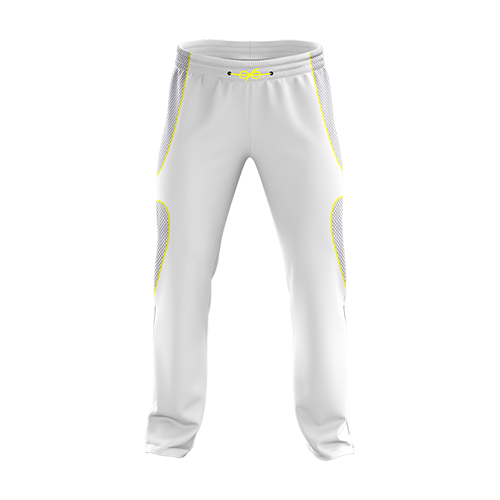
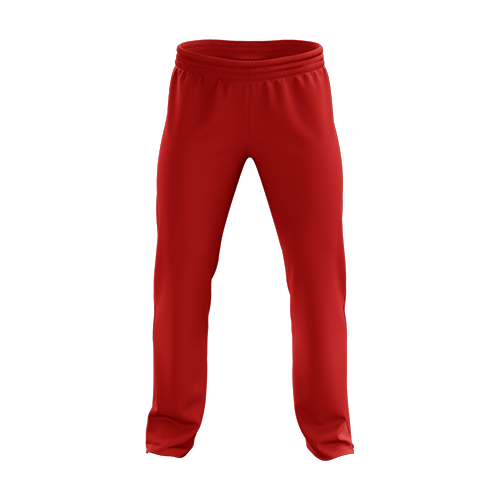
changes

Changed region(s): [[0.27, 0.06, 0.72, 0.93]]

diff --git a/js/controllers.js b/js/controllers.js
@@ -884,13 +884,13 @@ angular.module('phonecatControllers', ['templateservicemod', 'navigationservice'
         $scope.switchTrimHighlightOne = function (color) {
             console.log('colorrr', color);
             $scope.trouserJson.color.trim1 = color;
-            $scope.trouserJson.design.highlightOne = "img/" + $scope.trouserJson.type + "/" + $scope.trouserJson.design.name + "/front/trim1/" + color + ".png"; // "img/odi-tshirts/trims/highlight1/front/trim_" + color + ".png";
+            $scope.trouserJson.design.highlightOne = "img/" + $scope.trouserJson.type + "/" + $scope.designName + "/front/trim1/" + color + ".png"; // "img/odi-tshirts/trims/highlight1/front/trim_" + color + ".png";
 
         };
         $scope.switchTrimHighlightTwo = function (color) {
             //  console.log('colorswitchTrimHighlighttwo', color);
             $scope.trouserJson.color.trim2 = color;
-            $scope.trouserJson.design.highlightTwo = "img/" + $scope.trouserJson.type + "/" + $scope.trouserJson.design.name + "/front/trim2/" + color + ".png";
+            $scope.trouserJson.design.highlightTwo = "img/" + $scope.trouserJson.type + "/" + $scope.designName + "/front/trim2/" + color + ".png";
 
         };
         $scope.switchTrimHighlightBase = function (color) {
@@ -1183,7 +1183,7 @@ angular.module('phonecatControllers', ['templateservicemod', 'navigationservice'
                 $scope.trimTrouser.highlightTwo.disable = "noable";
                 $scope.trouserJson.design.name = "Square Leg";
                 $scope.trouserJson.type = "trousers";
-                $scope.designName = "design1";
+                $scope.designName = "design4";
                 $scope.singleAmount = 850;
                 $scope.trouserJson.color.base = "white";
                 $scope.trouserJson.color.trim1 = "lemon_yellow";
@@ -1232,15 +1232,15 @@ angular.module('phonecatControllers', ['templateservicemod', 'navigationservice'
                 $scope.trimTrouser.highlightTwo.disable = "noable";
                 $scope.trouserJson.design.name = "Long Leg";
                 $scope.trouserJson.type = "trousers";
-                $scope.designName = "design4";
+                $scope.designName = "design1";
                 $scope.singleAmount = 850;
                 $scope.trimTabs.light3.active = "activeme";
                 $scope.trimTabs.light3.show = "active-tab";
-                $scope.trouserJson.color.base = "red";
-                $scope.trouserJson.color.trim1 = "white";
+                $scope.trouserJson.color.base = "black";
+                $scope.trouserJson.color.trim1 = "red";
                 $scope.trouserJson.color.trim2 = "";
-                $scope.trouserJson.design.base = "img/" + $scope.trouserJson.type + "/base/front/" + 'red' + ".png";
-                $scope.trouserJson.design.highlightOne = "img/" + $scope.trouserJson.type + "/" + $scope.designName + "/front/trim1/" + 'white' + ".png"; // "img/odi-tshirts/trims/highlight1/front/trim_" + color + ".png";;
+                $scope.trouserJson.design.base = "img/" + $scope.trouserJson.type + "/base/front/" + 'black' + ".png";
+                $scope.trouserJson.design.highlightOne = "img/" + $scope.trouserJson.type + "/" + $scope.designName + "/front/trim1/" + 'red' + ".png"; // "img/odi-tshirts/trims/highlight1/front/trim_" + color + ".png";;
                 $scope.trouserJson.design.highlightTwo = "img/" + $scope.trouserJson.type + "/" + $scope.designName + "/front/trim2/" + '' + ".png";
 
             } else if (index === 4) {
@@ -1501,9 +1501,9 @@ angular.module('phonecatControllers', ['templateservicemod', 'navigationservice'
         //         $scope.trousersLogo.image = null;
         //     }
         $scope.emptyImage = function (key) {
-            console.log('ddddddddddd');
-            $scope.customizedTrouser[key] = null;
-            $scope.trouserJson.leftLogo.image = null;
+            console.log('ddddddddddd',key,$scope.trouserJson[key]);
+            // $scope.customizedTrouser[key] = null;
+            $scope.trouserJson[key] = {};
         }
         // console.log('trouserJson',trouserJson);
         $scope.checkTeamLogo = function () {

diff --git a/views/content/trousers.html b/views/content/trousers.html
@@ -304,11 +304,11 @@
                                             </div>
                                             <div class="edit-btn">
                                                 <button class="btn btn-outline btn-dark padding-btn letter-spacing uppercase mright15" ng-click="openUploads('leftLogo', 'Left Logo')"
-                                                    ng-if="!trouserJson.leftLogo">upload</button>
+                                                    ng-if="!trouserJson.leftLogo.image">upload</button>
                                                 <button class="btn btn-outline btn-dark padding-btn letter-spacing uppercase mright15" ng-click="openUploads('leftLogo', 'Left Logo')"
-                                                    ng-if="trouserJson.leftLogo">change</button>
+                                                    ng-if="trouserJson.leftLogo.image">change</button>
                                                 <button class="btn btn-outline btn-dark padding-btn letter-spacing uppercase mright15" ng-click="emptyImage('leftLogo')"
-                                                    ng-if="trouserJson.leftLogo">remove</button>
+                                                    ng-if="trouserJson.leftLogo.image">remove</button>
 
                                             </div>
                                         </div>

diff --git a/views/directive/customUI.html b/views/directive/customUI.html
@@ -2,7 +2,7 @@
     <div class="gully-shirt">
         <img ng-repeat="background in backgroundImages()" noloading="true" ng-src="{{background}}" class="trimshirt img-responsive">
         <div class="div-internal-image" ng-repeat="(key,imagePos) in imagesPositions()" ng-style="imagePos">
-           <img ng-src="{{design[key].image | serverimage}}" ng-if="design[key].image || design[key].image != ''" ng-style="{width:design[key].size}"
+           <img ng-src="{{design[key].image | serverimage}}" ng-if="design[key].image && design[key].image != ''" ng-style="{width:design[key].size}"
                 noloading="true" class="div-internal-image" alt="">
         </div>
 
